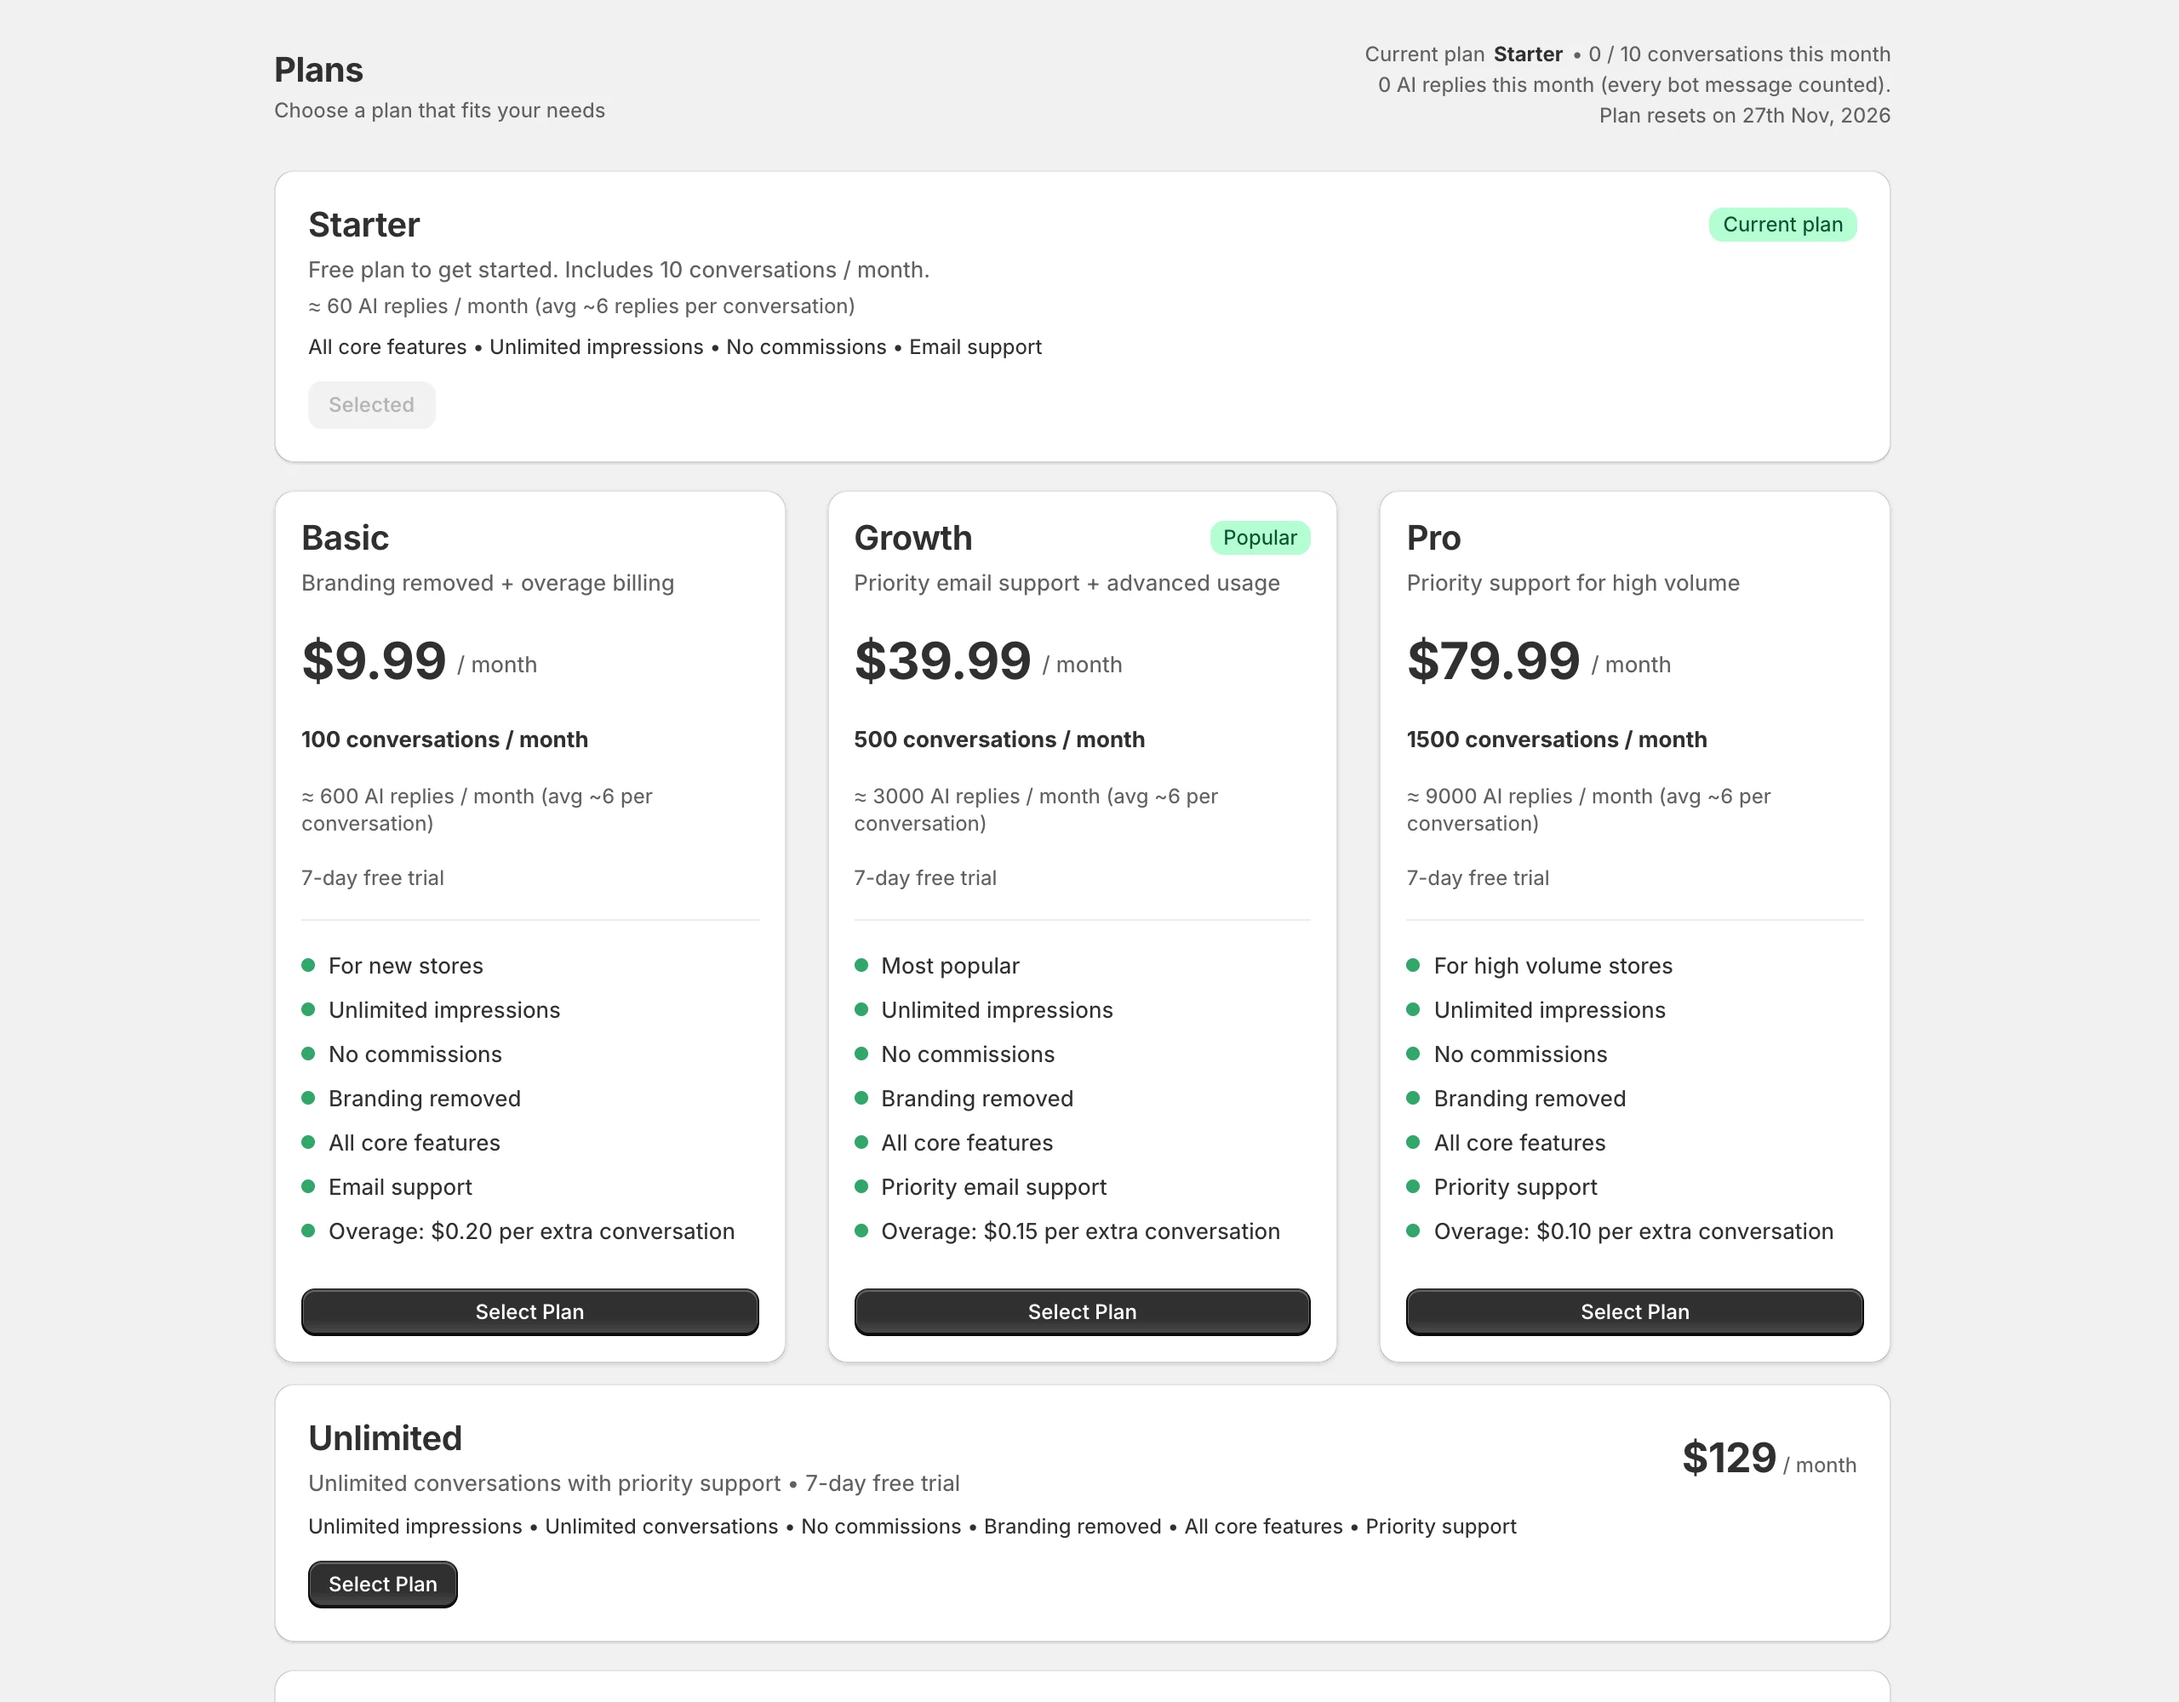
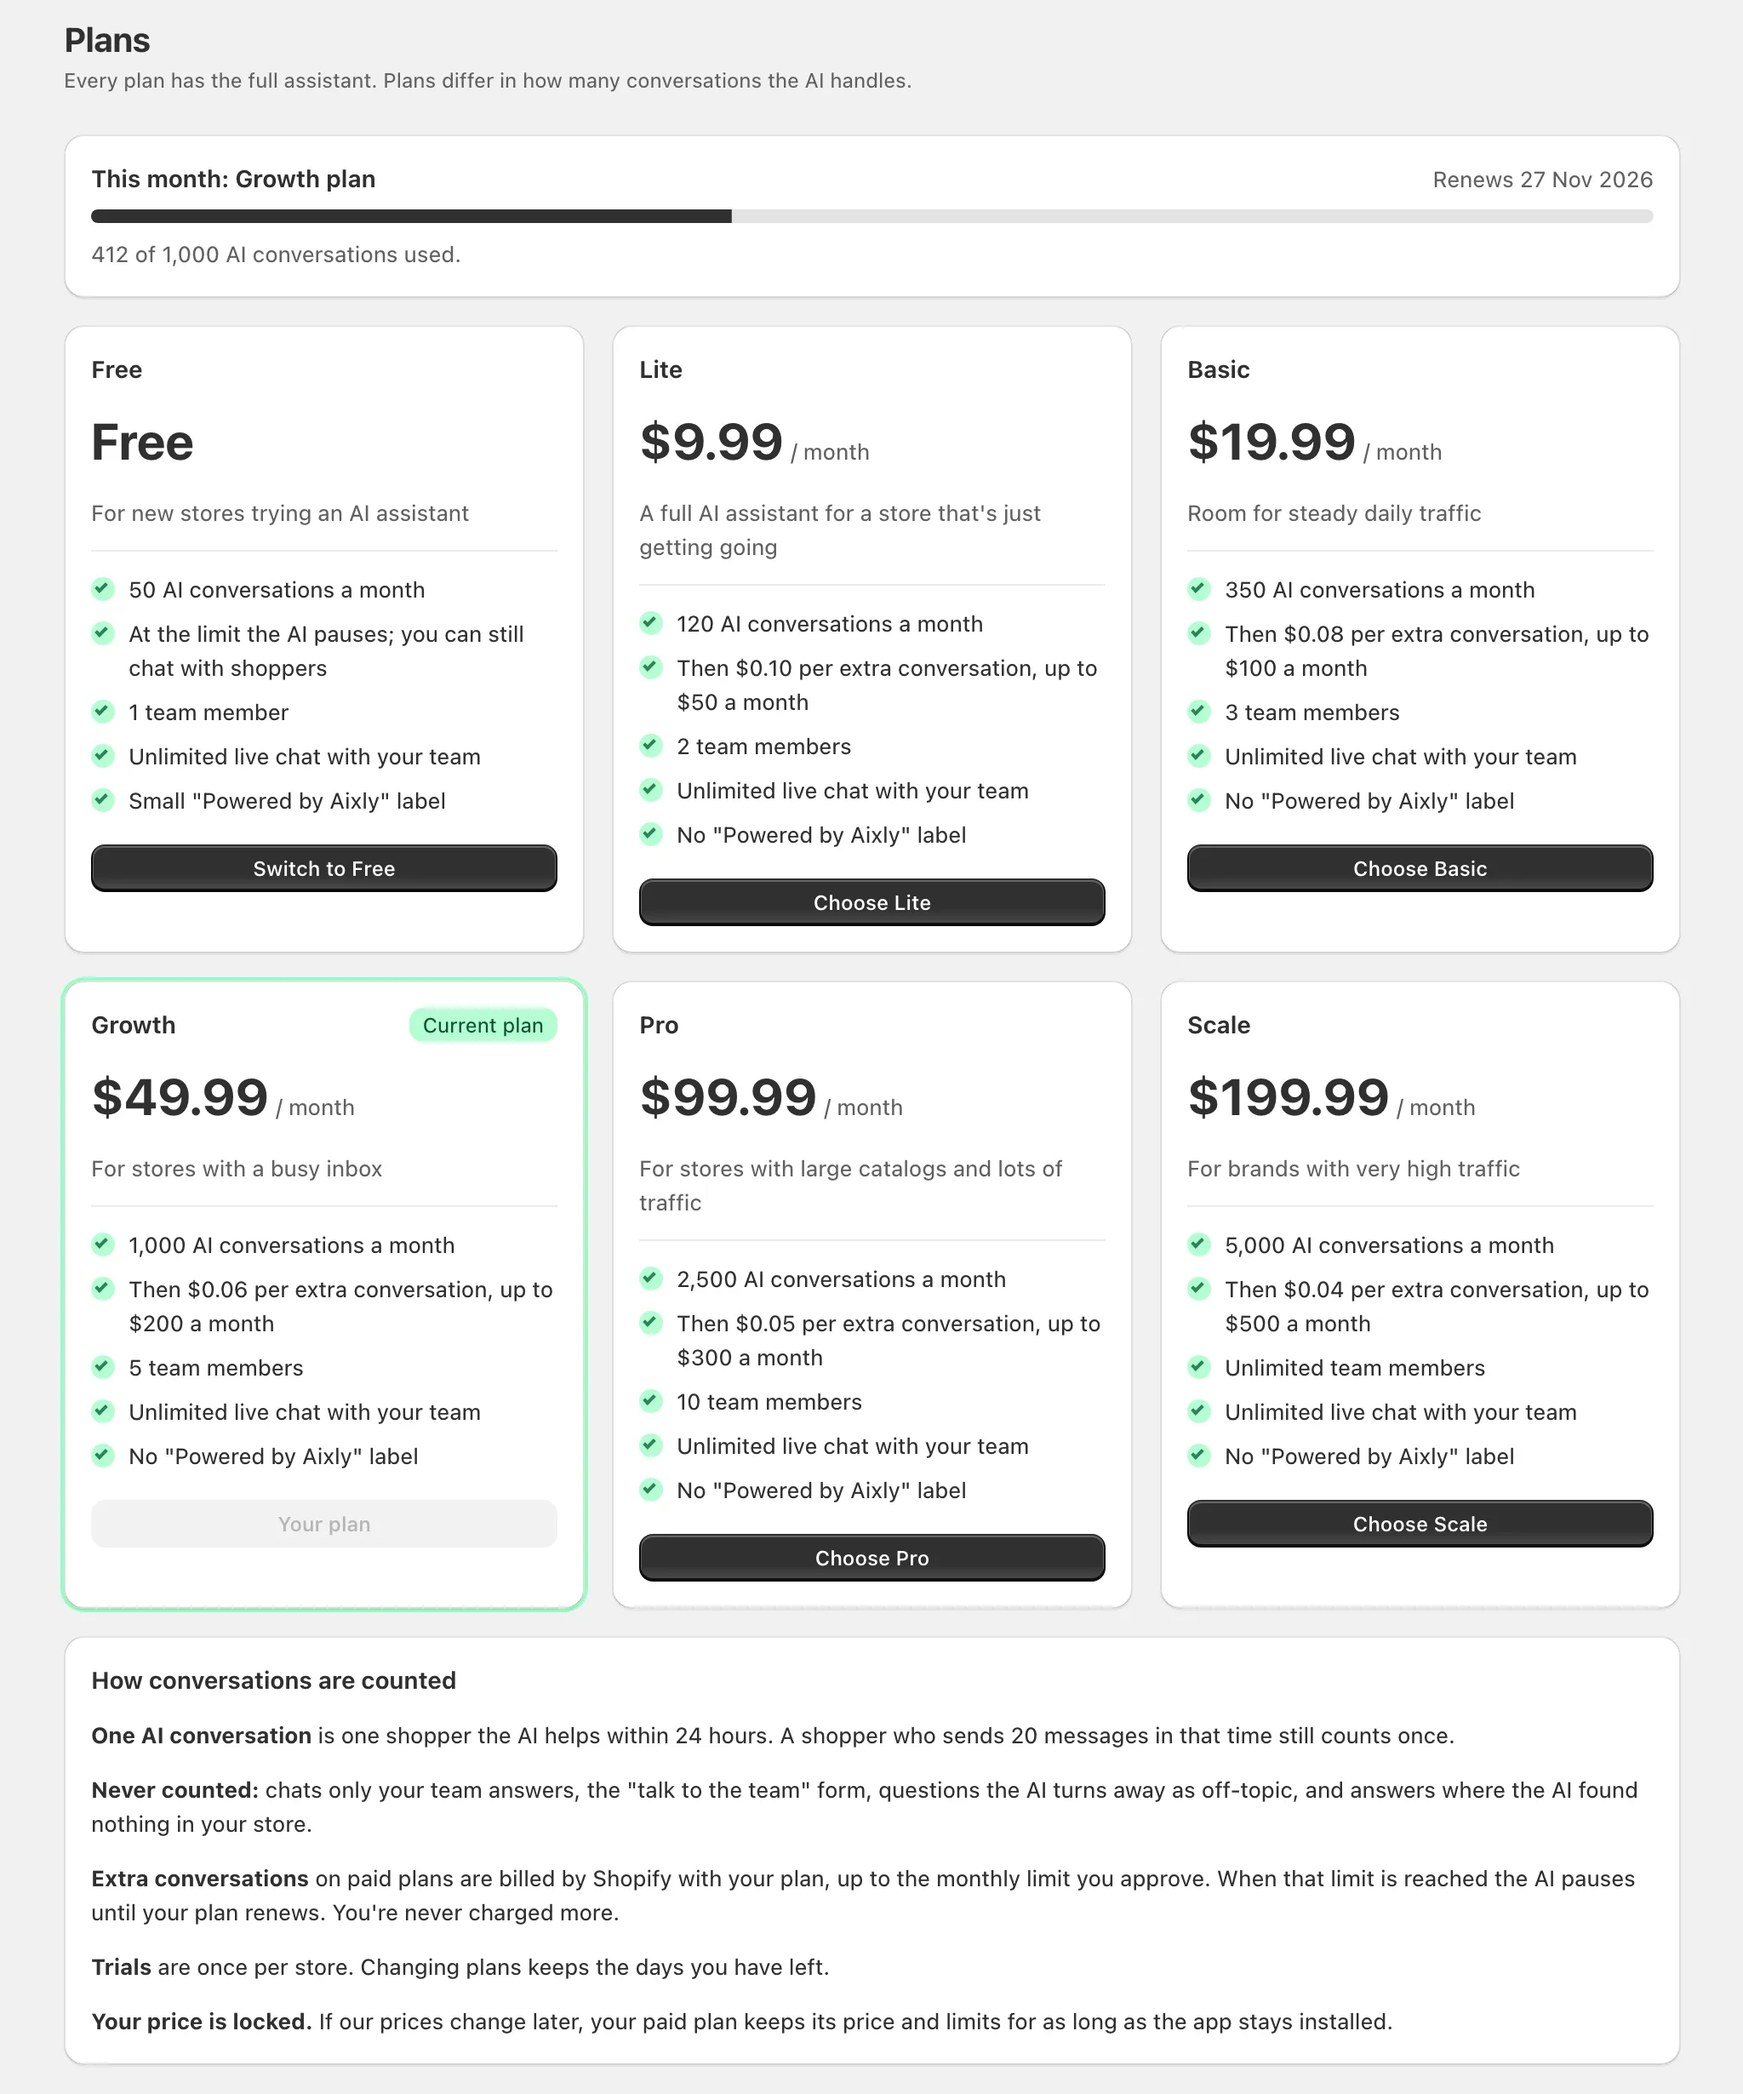
Plans: new Plans screenshot, team size by plan, what counts as an AI conversation, November changelog

diff --git a/docs/changelog.md b/docs/changelog.md
@@ -3,6 +3,17 @@ title: Changelog
 sidebar_position: 100
 ---
 
+## November 2026
+
+- **New plans**: Free, Lite ($9.99), Basic ($19.99), Growth ($49.99), Pro ($99.99) and Scale ($199.99), with 50 to 5,000 AI conversations a month. See **Plans and billing**
+- **Fairer counting**: an AI conversation is one shopper helped within 24 hours, and it only counts when the AI answered from your store. Live chat, off-topic questions and "I don't know" answers are never counted
+- **The chat never disappears**: when a plan's conversations run out, the AI pauses and shoppers get a form to reach your team; live chat keeps working
+- **Extra conversations** on paid plans cost $0.10 down to $0.04 each, up to the monthly limit you approve in Shopify
+- **Team size by plan**: from 1 member on Free to unlimited on Scale
+- **Your price is locked** for as long as the app stays installed
+
+---
+
 ## October 2026 (update 5)
 
 - **Add to cart from the chat**: shoppers ask, the assistant adds the right option and shows View cart and Checkout buttons

diff --git a/docs/features/team-inbox.md b/docs/features/team-inbox.md
@@ -18,6 +18,8 @@ Your team can answer chats from any browser with their own sign-in. They don't n
    - **Manager**: also teaches the assistant (Teach the assistant, Correct this answer) and sees unanswered questions.
 3. They open the link in the email (valid for 7 days, works once), enter their name and choose a password.
 
+How many people you can invite depends on your plan: Free 1, Lite 2, Basic 3, Growth 5, Pro 10, Scale unlimited. If you move to a smaller plan, everyone stays on the team, but you can't invite anyone new until you're under the limit. See **Plans and billing**.
+
 If email isn't set up for your store yet, the invitation link is shown so you can send it yourself with **Copy link**. Lost the email? Click **New link** next to the invitation (the old link stops working).
 
 ![Settings → Team](/img/screens/settings-team@2x.webp)

diff --git a/docs/faq.md b/docs/faq.md
@@ -89,6 +89,10 @@ Yes. Verified shoppers choose the items and reason, and a return request appears
 
 ## Plans & limits
 
+### What counts as an AI conversation?
+
+One shopper the AI helps within 24 hours, counted only when the AI answered from your store. A shopper who sends 20 messages in that time still counts once. Chats only your team answers, the "talk to the team" form, off-topic questions the AI turns away, and answers where the AI found nothing are never counted. See **Plans and billing**.
+
 ### What happens when my AI conversations run out?
 
 On the Free plan the AI pauses until your plan renews, but the chat stays on your store: shoppers get a form to reach your team, and live chat keeps working. On paid plans extra conversations are billed up to the monthly limit you approved. See **Plans** in the app.

diff --git a/docs/features/plans-billing.md b/docs/features/plans-billing.md
@@ -26,6 +26,8 @@ Every plan has the full assistant: product answers, order tracking, add to cart,
 
 Paid plans include a **7-day free trial** and remove the small "Powered by Aixly" label from the chat.
 
+Not sure which plan fits? The [plan calculator on aixly.io](https://aixly.io/pricing#calculator) works it out from your monthly AI conversations and team size, including what extra conversations would cost.
+
 ---
 
 ## How conversations are counted
